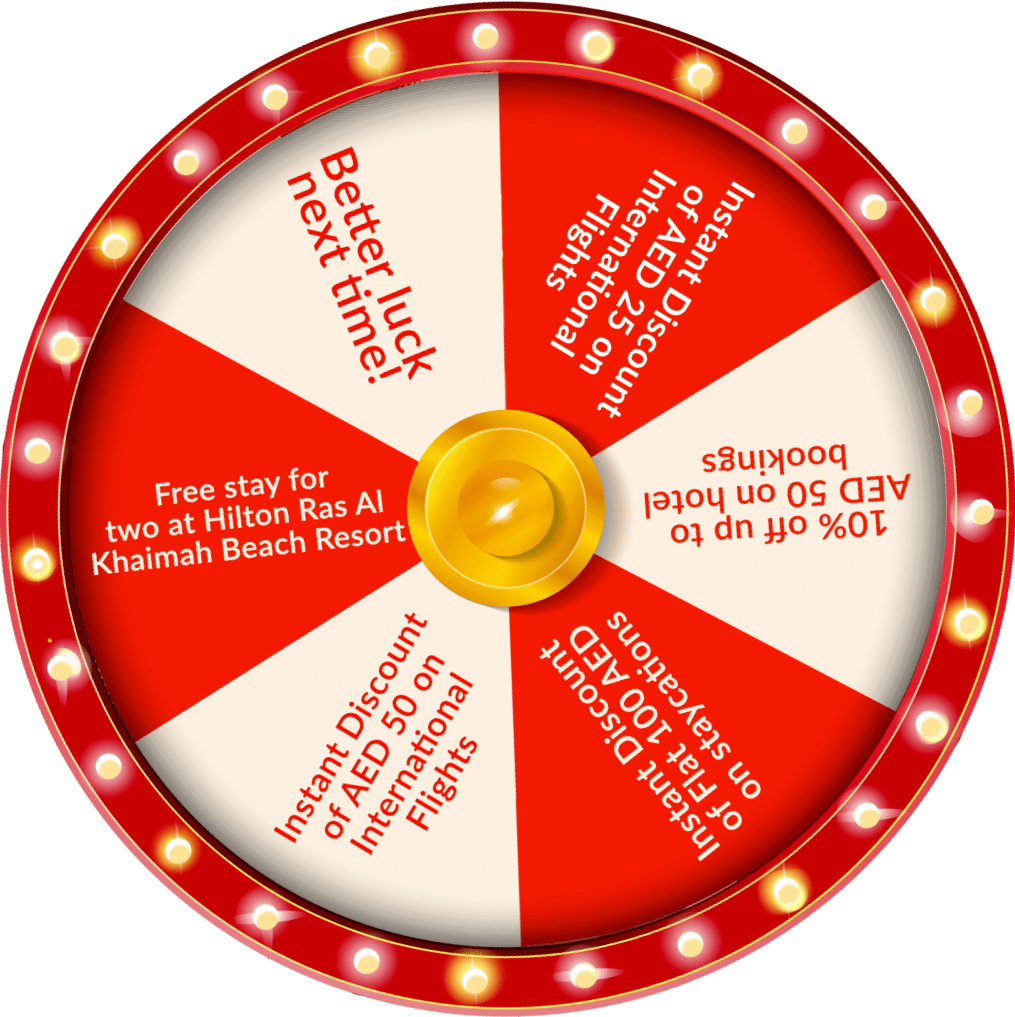
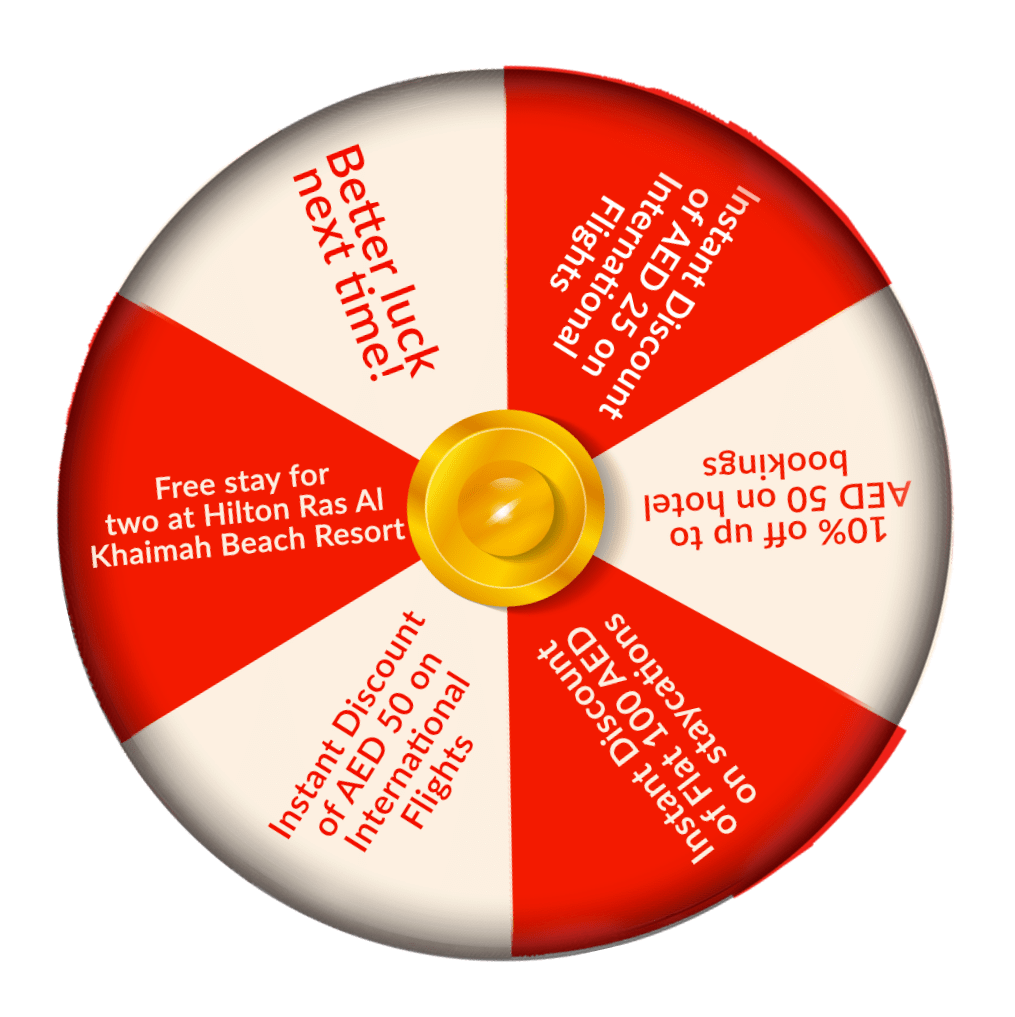
added new wheel animation

diff --git a/games/MMT/src/scenes/Game.js b/games/MMT/src/scenes/Game.js
@@ -27,7 +27,8 @@ export default class Game extends Phaser.Scene{
         this.load.audio('applaude', 'assets/applaude.mp3')
         this.load.image('spark0', 'assets/blue.png')
         this.load.image('spark1', 'assets/red.png')
-        this.load.image('coin1', 'assets/coin1.png')
+        this.load.image('wheelRing', 'assets/ring.png')
+        this.load.image('wheelCenter', 'assets/wheel.png')
     }
 
     create()
@@ -48,8 +49,10 @@ export default class Game extends Phaser.Scene{
         Align.scaleToGameW(this.headerText, 0.75)
         this.playButton = this.add.image(this.scale.width/2, this.scale.height - (this.scale.height/11), 'play-button')
         Align.scaleToGameW(this.playButton, 0.5)
-        this.wheel = this.add.image(this.scale.width/2, this.scale.height/2, 'wheel').setOrigin(0.5)
+        this.wheel = this.add.image(this.scale.width/2, this.scale.height/2, 'wheelCenter').setOrigin(0.5)
         Align.scaleToGameW(this.wheel, 0.9)
+        this.wheelRing = this.add.image(this.scale.width/2, this.scale.height/2, 'wheelRing').setOrigin(0.5)
+        Align.scaleToGameW(this.wheelRing, 0.9)
         this.endText = this.add.image(this.scale.width/2, this.scale.height/2, 'endText')
         Align.scaleToGameW(this.endText, 0.7)
         this.endText.setVisible(false)
@@ -59,21 +62,6 @@ export default class Game extends Phaser.Scene{
         this.endCoin = this.add.image(this.scale.width/2, this.scale.height/2, 'endCoin')
         Align.scaleToGameW(this.endCoin, 1)
         this.endCoin.setVisible(false)
-
-        this.coins = this.add.particles('coin1').createEmitter(
-            {
-                x: this.scale.width/2,
-                y: this.scale.height + 20,
-                angle: { min: 250, max: 290 },
-                speed: { min: 200, max: 600},
-                gravityY: 250,
-                lifespan: 5000,
-                blendMode: 'NORMAL',
-                duration: 10,
-                active: false,
-                quantity: 20,
-                scale: 0.25
-        });
 
         this.emitter0 = this.add.particles('spark0').createEmitter({
             x: 400,
@@ -121,14 +109,14 @@ export default class Game extends Phaser.Scene{
             delay: 10,
             // radial: true,
             angle: { min: 0, max: 360 },
-            emitZone: { type: 'edge', source: shape1, quantity: 27, yoyo: false,  }
+            emitZone: { type: 'edge', source: shape1, quantity: 27, yoyo: false}
         });
 
         this.wheelRef1 = this.tweens.add({
             targets: this.wheelReflection,
             angle: 360,
             loop: -1,  
-            duration: 1500,
+            duration: 2000,
         });
 
         this.stopper = this.add.image(this.scale.width/2, this.scale.height/2 - this.wheel.height * this.wheel.scale/2, 'stopper').setOrigin(0.5, 0.1)
@@ -144,12 +132,9 @@ export default class Game extends Phaser.Scene{
 
                 // now the wheel cannot spin because it's already spinning
                 this.canSpin = false;
-
-                this.wheelRef1.stop()
                 
                 this.tweens.add({
                     targets: this.wheel,
-                    // rotation: 6.285,
                     angle: 360 * 4 + degrees,
                     onUpdate: tween => {
 
@@ -172,17 +157,17 @@ export default class Game extends Phaser.Scene{
 
                     },
                     onComplete: tween => {
-           
-                            this.applaudeSound.play()
-                            this.coins.resume()
-                            for(let j=0; j<10; j++)
-                            {
-                                this.coins.explode()
-                            }
 
-                            this.time.delayedCall(5000, () => {
+                            this.applaudeSound.play()
+
+                            this.time.delayedCall(700, () => {
                                 this.emitter.stop()
+                            }, [], this)
+
+                            this.time.delayedCall(1500, () => {
+                                this.wheelRef1.stop()
                                 this.wheel.setVisible(false)
+                                this.wheelRing.setVisible(false)
                                 this.stopper.setVisible(false)
                                 this.headerText.setVisible(false)
                                 this.playButton.setVisible(false)
@@ -192,31 +177,26 @@ export default class Game extends Phaser.Scene{
                                     FbPlayableAd.onCTAClick()
                                 }, this);
 
-                                this.emitter0.resume()
-                                this.emitter1.resume()
+                                this.time.delayedCall(500, () => {
+                                    this.emitter0.resume()
+                                    this.emitter1.resume()
 
-                                for(let j=0; j<20; j++)
-                                {
-                                    this.emitter0.setPosition(this.scale.width/2, this.scale.height/2);
-                                    this.emitter1.setPosition(this.scale.width/2, this.scale.height/2);
-                                    for(let i=0; i<20; i++)
+                                    for(let j=0; j<20; j++)
                                     {
-                                        this.emitter0.explode();
-                                        this.emitter1.explode();
+                                        this.emitter0.setPosition(this.scale.width/2, this.scale.height/2);
+                                        this.emitter1.setPosition(this.scale.width/2, this.scale.height/2);
+                                        for(let i=0; i<20; i++)
+                                        {
+                                            this.emitter0.explode();
+                                            this.emitter1.explode();
+                                        }
                                     }
-                                }
+                                }, [], this)
 
                             }, [], this)
                     },
                     duration: 3000,
                     ease: 'Cubic.Out'
-                });
-
-                this.tweens.add({
-                    targets: this.wheelReflection,
-                    angle: 360 * 4,  
-                    duration: 8000,
-                    ease: 'Linear'
                 });
                 
             }
